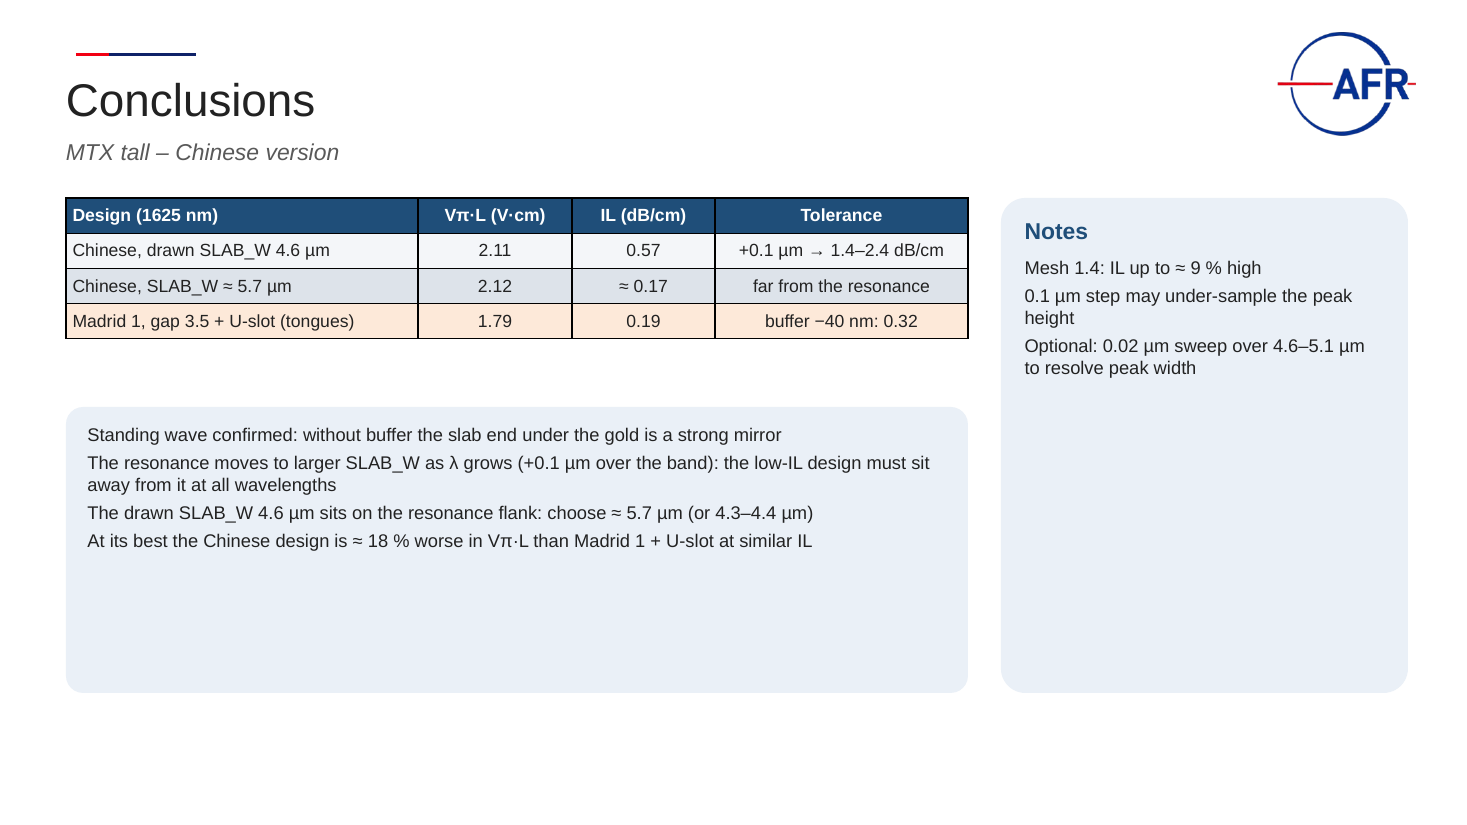
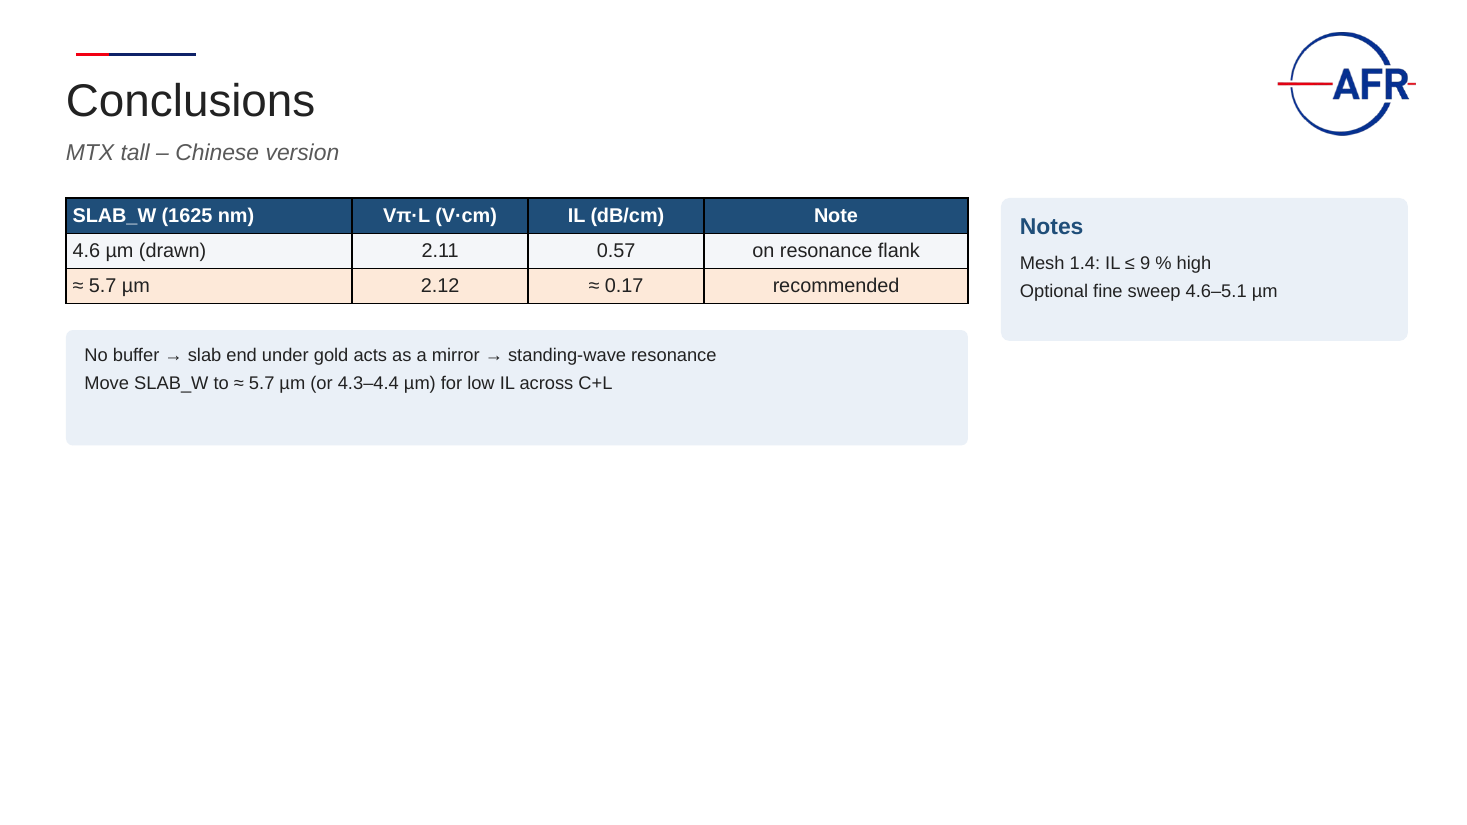
Chinese deck: simplified conclusions, no Madrid 1 reference
Claude-Session: https://claude.ai/code/session_01EHQDy7yrZwCZyHELu6KFb3

Changed region(s): [[0.0307, 0.2424, 0.9202, 0.4848], [0.0613, 0.5152, 0.6442, 0.6667], [0.2454, 0.2424, 0.4908, 0.2727]]

diff --git a/results/madrid/chinese/deck/build.py b/results/madrid/chinese/deck/build.py
@@ -28,14 +28,12 @@ box(s, 4.75, 5.5, 4.0, 1.3, [("Low-IL windows: 4.2–4.5 µm (0.16–0.33) and 5
 box(s, 8.9, 5.5, 3.9, 1.3, [("Vπ·L flat for SLAB_W ≥ 4.6 µm: 1.94 (1525) → 2.12 V·cm (1625)", {"size": 11})])
 # 4 conclusions
 s = new("Conclusions", "MTX tall – Chinese version")
-table(s, [["Design (1625 nm)", "Vπ·L (V·cm)", "IL (dB/cm)", "Tolerance"], ["Chinese, drawn SLAB_W 4.6 µm", "2.11", "0.57", "+0.1 µm → 1.4–2.4 dB/cm"],
-          ["Chinese, SLAB_W ≈ 5.7 µm", "2.12", "≈ 0.17", "far from the resonance"], ["Madrid 1, gap 3.5 + U-slot (tongues)", "1.79", "0.19", "buffer −40 nm: 0.32"]],
-      0.6, 1.8, 8.2, [3.2, 1.4, 1.3, 2.3], size=11.5, highlight=(3,))
-box(s, 0.6, 3.7, 8.2, 2.6, [("Standing wave confirmed: without buffer the slab end under the gold is a strong mirror", B),
-    ("The resonance moves to larger SLAB_W as λ grows (+0.1 µm over the band): the low-IL design must sit away from it at all wavelengths", B),
-    ("The drawn SLAB_W 4.6 µm sits on the resonance flank: choose ≈ 5.7 µm (or 4.3–4.4 µm)", B),
-    ("At its best the Chinese design is ≈ 18 % worse in Vπ·L than Madrid 1 + U-slot at similar IL", B)])
-box(s, 9.1, 1.8, 3.7, 4.5, [H("Notes"), ("Mesh 1.4: IL up to ≈ 9 % high", B), ("0.1 µm step may under-sample the peak height", B), ("Optional: 0.02 µm sweep over 4.6–5.1 µm to resolve peak width", B)])
+table(s, [["SLAB_W (1625 nm)", "Vπ·L (V·cm)", "IL (dB/cm)", "Note"], ["4.6 µm (drawn)", "2.11", "0.57", "on resonance flank"],
+          ["≈ 5.7 µm", "2.12", "≈ 0.17", "recommended"]],
+      0.6, 1.8, 8.2, [2.6, 1.6, 1.6, 2.4], size=13, highlight=(2,))
+box(s, 0.6, 3.0, 8.2, 1.05, [("No buffer → slab end under gold acts as a mirror → standing-wave resonance", B),
+    ("Move SLAB_W to ≈ 5.7 µm (or 4.3–4.4 µm) for low IL across C+L", B)])
+box(s, 9.1, 1.8, 3.7, 1.3, [H("Notes"), ("Mesh 1.4: IL ≤ 9 % high", B), ("Optional fine sweep 4.6–5.1 µm", B)])
 sldIdLst = prs.slides._sldIdLst
 for sid in list(sldIdLst)[:first_new]:
     prs.part.drop_rel(sid.rId); sldIdLst.remove(sid)
